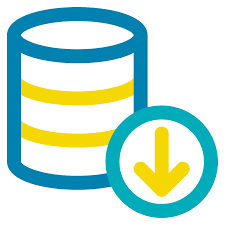
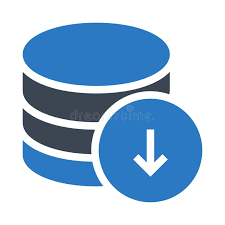
Financial Process

diff --git a/ROMS/Financial_Year_Process.cs b/ROMS/Financial_Year_Process.cs
@@ -208,7 +208,7 @@ namespace ROMS
                 if (varTimer == 1)
                 {
                     varTimer = 0;
-                    PbBackup.Value = 10;
+                    PbBackup.Value = 14;
                     Pic_Backup.Image = ROMS.Properties.Resources.Db_backup_Color;
                     /*
                     if (PbBackup.Value != 9)
